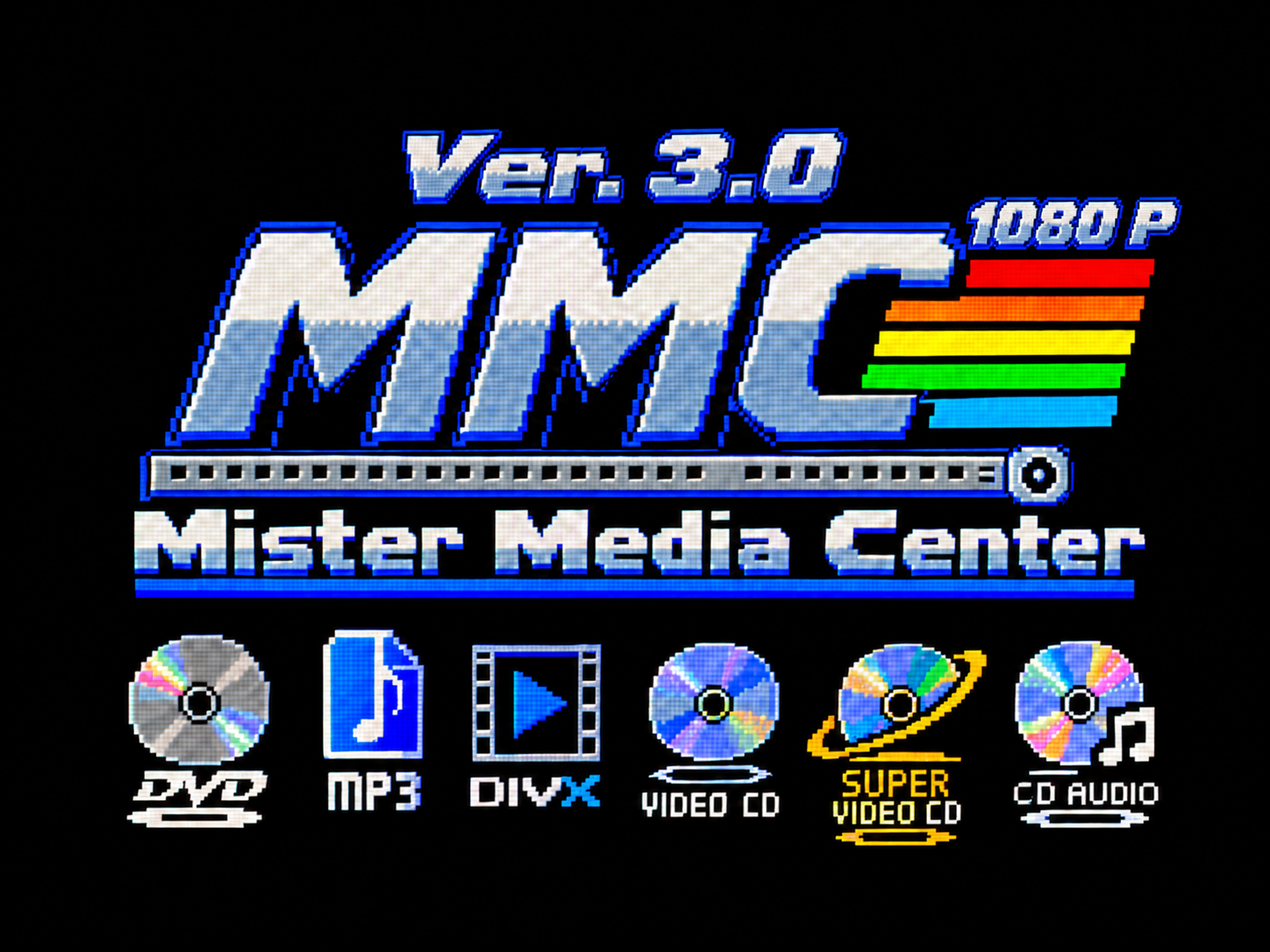
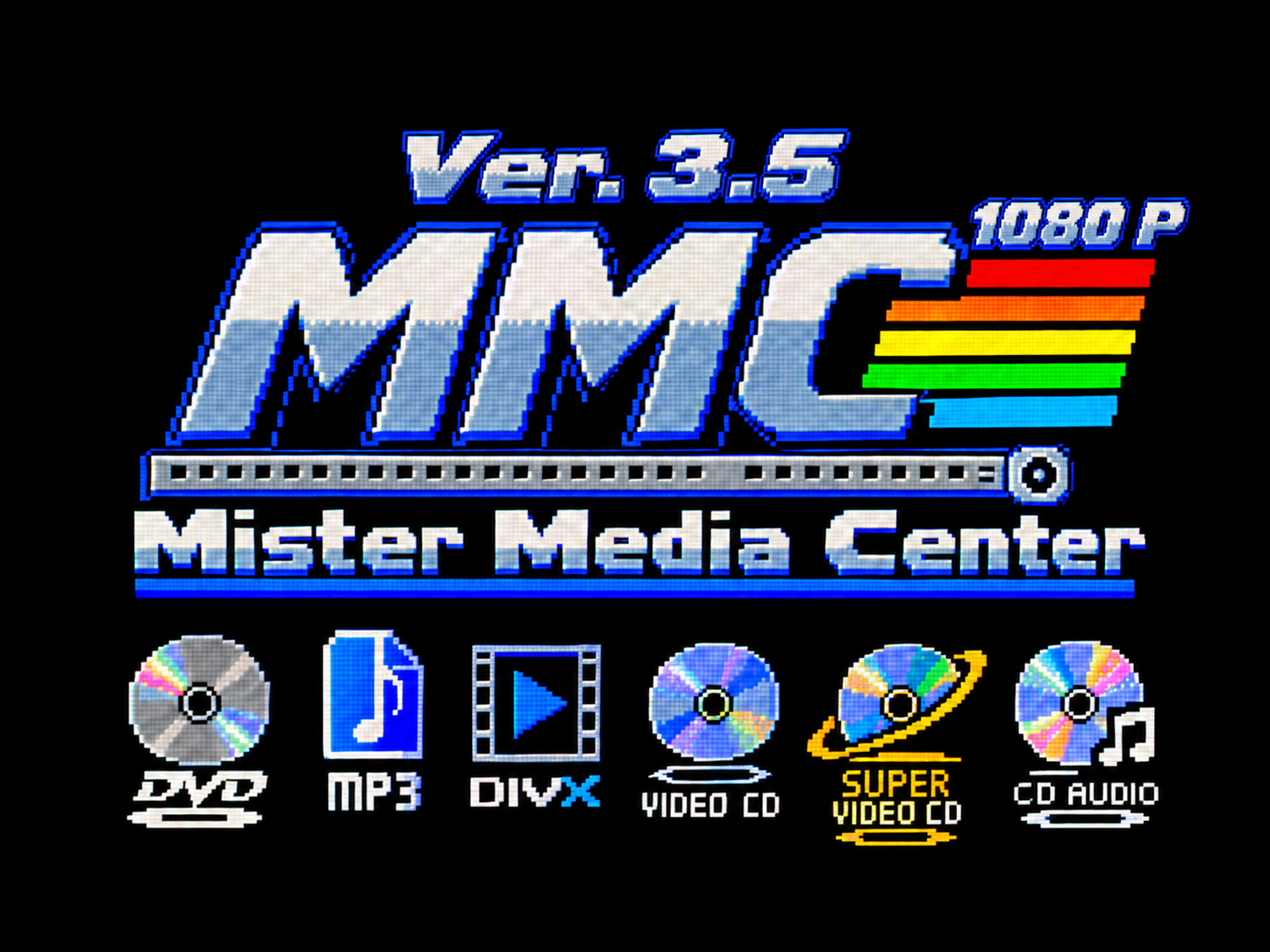
Docs for 3.5: what's new in the READMEs (IT/EN), release notes, README picture Ver. 3.5
- README.md / README_EN.md: section "What's new in version 3.5"
  (deblocking in the FPGA, smooth 1080p30, controls blended by the core,
  waiting for the end of start-up, precedence, MiSTer Remote pause,
  bitrate limits, tests of 25-28 October), MC_NOBOOTWAIT / MC_NOPRIO /
  MC_NOPAUSE in the settings table, MC_NODEBLOCK / MC_NOCOREOSD in the
  test variables.
- RELEASE_NOTES.md for 3.5.
- docs/mmc.png: the Ver. 3.5 picture.

Not released: waiting for the user's tests.

Claude-Session: https://claude.ai/code/session_01JGWBLJ8BwAbyUWtAwdqY5t

diff --git a/RELEASE_NOTES.md b/RELEASE_NOTES.md
@@ -8,24 +8,23 @@
 
 > Sviluppato con l'aiuto dell'intelligenza artificiale (Claude di Anthropic). / Developed with the help of AI (Anthropic's Claude).
 
-**MiSTer MediaCenter 3.0** trasforma il MiSTer in un lettore per DVD-Video, Video CD, Super Video CD, video DivX/Xvid/MP4/MKV e musica, da disco, SD, USB e rete, su HDMI e su CRT a 15 kHz.
+**MiSTer MediaCenter 3.5** trasforma il MiSTer in un lettore per DVD-Video, Video CD, Super Video CD, video DivX/Xvid/MP4/MKV e musica, da disco, SD, USB e rete, su HDMI e su CRT a 15 kHz.
 
-**Novità della 3.0:** i video **1080p H.264** sono fluidi, su HDMI e su CRT, grazie a un acceleratore nell'FPGA.
+**Novità della 3.5:** l'acceleratore H.264 della 3.0 è completo. L'immagine 1080p è più pulita, i video 1080p a 30 immagini al secondo sono fluidi e il menu sopra il video non li rallenta più.
 
-- **Acceleratore H.264 nell'FPGA:** il core del menu contiene un motore che ricostruisce le immagini dei video H.264. L'ARM legge il file e decifra il video, poi manda all'FPGA i comandi di ogni immagine; l'FPGA ricostruisce l'immagine e la copia da sola nel framebuffer. Prima l'ARM impiegava circa 44 ms per immagine, più dei 41,7 ms disponibili a 24 immagini al secondo; ora gliene bastano in media 5–15.
-- **1080p fluido:** nei tratti senza salti 240 immagini mostrate su 240 ogni 10 secondi, contro circa il 14% di immagini non mostrate della 2.8. Panoramiche fluide su HDMI e CRT.
-- **Anche nel formato 4:3 con Start:** l'FPGA restringe l'immagine a 1280 punti (Auto e gli altri formati) o a 960 (4:3); il cambio di formato durante il film non spegne l'acceleratore.
-- **Quando si usa:** solo per i video H.264 a 8 bit, 4:2:0, progressivi, larghi 1920 punti. DVD, Video CD, DivX, 720p e gli altri video vanno come nella 2.8. Se l'acceleratore trova un problema torna da solo al decoder normale dallo stesso punto del film. `MC_NOACC=1` in `mediacenter.ini` lo spegne.
-- **Diagnosi nel log:** ogni 10 secondi una riga `diag acceleratore` con immagini mandate e disegnate, tempi dell'ARM e dell'FPGA, immagini in ritardo o perse.
-- **Chiavetta USB elencata una volta sola** anche quando il sistema la monta su `/media/usb0` e `/media/usb1`.
-- **Video CD giusto sul CRT:** immagine 4:3 a tutto schermo senza bande nere ai lati, 576i per i dischi PAL e riquadro Formato con Start (ora i Video CD li riproduce lo stesso lettore dei Super Video CD).
-- **Nuova immagine** Ver. 3.0 1080 P, mostrata solo quando si avvia lo script mediacenter a mano (non quando parte un DVD, un Super Video CD o un Video CD), come nella 2.8.
+- **Filtro anti-blocchi (deblocking) nell'FPGA:** il core del menu fa anche il filtro che nasconde i bordi dei blocchi dell'H.264, senza costare niente all'ARM. Spariti i punti viola, verdi e gialli nelle scene veloci con la neve.
+- **1080p a 30 immagini al secondo fluido:** HTC.mp4 (1080p 29,97) passa dal 12,4% di immagini non mostrate della 3.0 allo 0,1%.
+- **Menu sopra il 1080p senza scatti:** barra, menu e scritte del lettore li mescola il core del menu mentre copia l'immagine; all'ARM restano 0,3 ms per immagine invece di circa 5.
+- **Subito dopo l'accensione il video aspetta la fine dell'avvio della MiSTer** (al massimo 60 secondi, con i secondi sullo schermo; B torna indietro), invece di scattare nel primo minuto. `MC_NOBOOTWAIT=1` toglie l'attesa.
+- **Il video ha la precedenza sugli altri programmi** mentre suona, e **MiSTer Remote** viene messo in pausa fino alla fine del video (`MC_NOPRIO=1` e `MC_NOPAUSE=1` li tolgono).
+- **Diagnosi nel log:** bitrate del video, picchi del decoder, tempo per disegnare le immagini, altri programmi che usano la CPU.
+- **Nuova immagine** Ver. 3.5, con il numero della build in basso.
 
-Il motore non ha ancora il filtro anti-blocchi (deblocking) dell'H.264: è il prossimo passo.
+**Fin dove arriva il 1080p:** fluido fino a circa 6 Mbit/s a 30 immagini al secondo e 9 Mbit/s a 24 (stime dalle prove). Oltre, l'ARM non fa in tempo a leggere il flusso H.264: leggerlo nell'FPGA è un obiettivo per la 4.0.
 
-Provata su un MiSTer vero il 24 ottobre 2026 su CRT Sony Trinitron (SCART RGB, 480i) e HDMI insieme, con One Piece Episodio 940 1080p H.264: 238 s di riproduzione continua con 5724 immagini disegnate dall'FPGA e nessuna persa; 449 s con salti avanti e indietro, 240 su 240 ogni 10 secondi nei tratti senza salti; cambi di formato Auto, 16:9, 4:3 fluidi con l'acceleratore sempre acceso; scene pesanti con l'FPGA al lavoro circa 30 ms su 41,7; DVD e DivX come nella 2.8; Video CD PAL a tutto schermo sul CRT. Dettagli nel [README](https://github.com/bonna79/MiSTer_MediaCenter#novità-della-versione-30).
+Provata su un MiSTer vero il 25–28 ottobre 2026 su CRT Sony Trinitron (SCART RGB, 480i) e HDMI insieme: HTC.mp4 1080p 29,97 con il menu aperto più volte 0,1% di immagini non mostrate e menu pulito su HDMI e CRT; HTC.mp4 subito dopo l'accensione 0,3% dopo 18 s di attesa (prima 6,8%); One Piece 1080p 23,976 0,3%. Dettagli nel [README](https://github.com/bonna79/MiSTer_MediaCenter#novità-della-versione-35) e nella [scheda tecnica](https://github.com/bonna79/MiSTer_MediaCenter/blob/main/docs/SCHEDA_TECNICA_ACCELERATORE_IT.md).
 
-Le novità della 2.8 (formato giusto per ogni film sul CRT, riquadro Formato con Start) e delle versioni precedenti sono nel [README](https://github.com/bonna79/MiSTer_MediaCenter#novità-della-versione-28).
+Le novità della 3.0 (acceleratore H.264 nell'FPGA) e delle versioni precedenti sono nel [README](https://github.com/bonna79/MiSTer_MediaCenter#novità-della-versione-30).
 
 **Ringraziamenti:**
 
@@ -33,7 +32,7 @@ Le novità della 2.8 (formato giusto per ogni film sul CRT, riquadro Formato con
 - **Max Riptide**, per le numerose prove fatte e i suggerimenti.
 - **mad4gith**, per le idee suggerite per migliorare MMC.
 
-**Installazione:** estrai `MiSTer_MediaCenter.zip` nella cartella principale della SD: contiene tutto quello che serve a MMC. Aggiorna sempre tutti i file insieme. **Dalla 2.8:** estrai lo zip sopra i file vecchi e riavvia; servono insieme il lettore `mediacenter` e il core `menu_mediacenter.rbf` della 3.0 (l'acceleratore è nel core). `MiSTer.ini` e `mediacenter.ini` restano come sono.
+**Installazione:** estrai `MiSTer_MediaCenter.zip` nella cartella principale della SD: contiene tutto quello che serve a MMC. Aggiorna sempre tutti i file insieme. **Dalla 3.0:** estrai lo zip sopra i file vecchi e riavvia; servono insieme il lettore `mediacenter` e il core `menu_mediacenter.rbf` della 3.5 (il filtro anti-blocchi e il menu sopra il video sono nel core). `MiSTer.ini` e `mediacenter.ini` restano come sono.
 
 | File | Cartella |
 | --- | --- |
@@ -50,27 +49,26 @@ Copia in `/media/fat/MiSTer.ini` le righe di `MMC_MiSTer_ini.txt`: `vga_scaler=0
 
 ---
 
-**English:** **MiSTer MediaCenter 3.0** turns the MiSTer into a player for DVD-Video, Video CD, Super Video CD, DivX/Xvid/MP4/MKV video and music, from disc, SD, USB and network, over HDMI and on a 15 kHz CRT.
+**English:** **MiSTer MediaCenter 3.5** turns the MiSTer into a player for DVD-Video, Video CD, Super Video CD, DivX/Xvid/MP4/MKV video and music, from disc, SD, USB and network, over HDMI and on a 15 kHz CRT.
 
-**What's new in 3.0:** **1080p H.264** video plays smoothly, over HDMI and on the CRT, thanks to an accelerator in the FPGA.
+**What's new in 3.5:** 3.0's H.264 accelerator is complete. The 1080p picture is cleaner, 1080p video at 30 pictures per second plays smoothly and the menu over the video no longer slows it down.
 
-- **H.264 accelerator in the FPGA:** the menu core holds an engine that rebuilds the pictures of H.264 video. The ARM reads the file and parses the video, then sends the FPGA the commands for each picture; the FPGA rebuilds the picture and copies it into the frame buffer by itself. Before, the ARM needed about 44 ms per picture, more than the 41.7 ms available at 24 pictures per second; now 5–15 ms on average are enough.
-- **Smooth 1080p:** in stretches without seeks 240 of 240 pictures shown every 10 seconds, against about 14% not shown in 2.8. Smooth pans on HDMI and CRT.
-- **Also in the 4:3 format chosen with Start:** the FPGA narrows the picture to 1280 pixels (Auto and the other formats) or 960 (4:3); changing the format during the film does not turn the accelerator off.
-- **When it is used:** only for 8-bit, 4:2:0, progressive H.264 video 1920 pixels wide. DVD, Video CD, DivX, 720p and other video play as in 2.8. If the accelerator meets a problem it goes back to the normal decoder by itself from the same point of the film. `MC_NOACC=1` in `mediacenter.ini` turns it off.
-- **Diagnostics in the log:** every 10 seconds a `diag acceleratore` line with pictures sent and drawn, ARM and FPGA times, pictures late or lost.
-- **USB stick listed once** even when the system mounts it on both `/media/usb0` and `/media/usb1`.
-- **Video CD right on the CRT:** full-screen 4:3 picture without black bars at the sides, 576i for PAL discs and the format box with Start (Video CDs are now played by the same player as Super Video CDs).
-- **New picture** Ver. 3.0 1080 P, shown only when the mediacenter script is started by hand (not when a DVD, Super Video CD or Video CD starts it), as in 2.8.
+- **Deblocking filter in the FPGA:** the menu core also runs the filter that hides the edges of H.264's blocks, at no cost to the ARM. The purple, green and yellow dots in fast scenes with snow are gone.
+- **Smooth 1080p at 30 pictures per second:** HTC.mp4 (1080p 29.97) goes from 12.4% of pictures not shown in 3.0 to 0.1%.
+- **Menu over 1080p without stutter:** the player's bar, menu and text are blended by the menu core while it copies the picture; the ARM spends 0.3 ms per picture instead of about 5.
+- **Right after power-on the video waits for the MiSTer's start-up to end** (60 seconds at most, with the seconds on screen; B goes back), instead of stuttering for the first minute. `MC_NOBOOTWAIT=1` removes the wait.
+- **The video comes before the other programs** while it plays, and **MiSTer Remote** is paused until the video ends (`MC_NOPRIO=1` and `MC_NOPAUSE=1` remove them).
+- **Diagnostics in the log:** the video's bitrate, the decoder's peaks, the time to draw the pictures, the other programs using the CPU.
+- **New picture** Ver. 3.5, with the build number at the bottom.
 
-The engine does not have H.264's deblocking filter yet: that is the next step.
+**How far 1080p goes:** smooth up to about 6 Mbit/s at 30 pictures per second and 9 Mbit/s at 24 (estimates from the tests). Beyond that the ARM cannot parse the H.264 stream in time: parsing it in the FPGA is a goal for 4.0.
 
-Tested on a real MiSTer on 24 October 2026 on a Sony Trinitron CRT (SCART RGB, 480i) and HDMI together, with One Piece Episode 940 1080p H.264: 238 s of continuous playback with 5724 pictures drawn by the FPGA and none lost; 449 s with seeks forward and back, 240 of 240 every 10 seconds in stretches without seeks; format changes Auto, 16:9, 4:3 smooth with the accelerator always on; heavy scenes with the FPGA working about 30 ms of 41.7; DVD and DivX as in 2.8; PAL Video CD full screen on the CRT. Details in the [README](https://github.com/bonna79/MiSTer_MediaCenter/blob/main/README_EN.md#whats-new-in-version-30).
+Tested on a real MiSTer on 25–28 October 2026 on a Sony Trinitron CRT (SCART RGB, 480i) and HDMI together: HTC.mp4 1080p 29.97 with the menu opened several times 0.1% of pictures not shown and the menu clean on HDMI and CRT; HTC.mp4 right after power-on 0.3% after 18 s of waiting (before 6.8%); One Piece 1080p 23.976 0.3%. Details in the [README](https://github.com/bonna79/MiSTer_MediaCenter/blob/main/README_EN.md#whats-new-in-version-35) and the [technical sheet](https://github.com/bonna79/MiSTer_MediaCenter/blob/main/docs/TECHNICAL_SHEET_ACCELERATOR_EN.md).
 
-What's new in 2.8 (the right shape for every film on the CRT, format box with Start) and in earlier versions is in the [README](https://github.com/bonna79/MiSTer_MediaCenter/blob/main/README_EN.md#whats-new-in-version-28).
+What's new in 3.0 (the H.264 accelerator in the FPGA) and in earlier versions is in the [README](https://github.com/bonna79/MiSTer_MediaCenter/blob/main/README_EN.md#whats-new-in-version-30).
 
 **Thanks:** Umberto Parisi (rmonic79) of the Beceri Videoludici, whose work on [MiSTer CRT Adjust](https://github.com/rmonic79/MiSTer-CRT-Adjust) made CRT Adjust possible ([YouTube channel](https://youtube.com/@rmonic79_ibecerivideoludici)); Max Riptide for the many tests and suggestions; mad4gith for the ideas to improve MMC.
 
-**Install:** extract `MiSTer_MediaCenter.zip` to the root of the SD card: it holds everything MMC needs. Always update all files together (**from 2.8:** extract the zip over the old files and restart; the 3.0 `mediacenter` player and `menu_mediacenter.rbf` core are needed together, the accelerator is in the core; `MiSTer.ini` and `mediacenter.ini` stay as they are): Main `MiSTer_MediaCenter` to `/media/fat/`, ARM player `mediacenter` and menu core `menu_mediacenter.rbf` to `/media/fat/linux/`, script `mediacenter.sh` to `/media/fat/Scripts/`, `libdvdcss.so.2` to `/media/fat/dvdcss/`, `MMC_MiSTer_ini.txt` to `/media/fat/`. Copy the lines of `MMC_MiSTer_ini.txt` into `/media/fat/MiSTer.ini`. The [MiSTer Physical Disc](https://github.com/Anime0t4ku/Main_MiSTer_Physical_Disc/releases) Main, for game discs, is downloaded from its own project. Restart the MiSTer. Full guide in the [README](https://github.com/bonna79/MiSTer_MediaCenter/blob/main/README_EN.md#installation).
+**Install:** extract `MiSTer_MediaCenter.zip` to the root of the SD card: it holds everything MMC needs. Always update all files together (**from 3.0:** extract the zip over the old files and restart; the 3.5 `mediacenter` player and `menu_mediacenter.rbf` core are needed together, the deblocking filter and the menu over the video are in the core; `MiSTer.ini` and `mediacenter.ini` stay as they are): Main `MiSTer_MediaCenter` to `/media/fat/`, ARM player `mediacenter` and menu core `menu_mediacenter.rbf` to `/media/fat/linux/`, script `mediacenter.sh` to `/media/fat/Scripts/`, `libdvdcss.so.2` to `/media/fat/dvdcss/`, `MMC_MiSTer_ini.txt` to `/media/fat/`. Copy the lines of `MMC_MiSTer_ini.txt` into `/media/fat/MiSTer.ini`. The [MiSTer Physical Disc](https://github.com/Anime0t4ku/Main_MiSTer_Physical_Disc/releases) Main, for game discs, is downloaded from its own project. Restart the MiSTer. Full guide in the [README](https://github.com/bonna79/MiSTer_MediaCenter/blob/main/README_EN.md#installation).
 
 **Your feedback is very valuable:** write to me, even when everything works. If there are problems, open a report on [Issues](https://github.com/bonna79/MiSTer_MediaCenter/issues) with photos of the screen and the `/tmp/mediacenter.log`, `/tmp/mediacenter_main.log` and `/tmp/mediacenter_crt` files.

diff --git a/README.md b/README.md
@@ -5,7 +5,7 @@
 > [!WARNING]
 > **AVVERTENZA: HDMI e CRT collegati insieme.** Se usi insieme l'uscita HDMI verso un televisore LCD e l'uscita VGA→SCART verso un CRT, collega **MiSTer, televisore LCD e CRT alla stessa multipresa elettrica**. Con i due televisori su prese diverse, accendere il CRT mentre il MiSTer è acceso può far passare uno sbalzo elettrico attraverso il MiSTer, tramite le masse dei cavi. È successo in una prova: l'HDMI è diventato verde per qualche secondo, poi l'immagine è sparita su tutte e due le uscite (l'audio continuava) e il pad non rispondeva più; è servito riavviare. Se non puoi usare la stessa multipresa, **accendi il CRT prima del MiSTer**.
 
-<p align="center"><img src="docs/mmc.png" alt="MiSTer Media Center Ver. 3.0 1080p: DVD, MP3, DivX, Video CD, Super Video CD, CD Audio" width="720"></p>
+<p align="center"><img src="docs/mmc.png" alt="MiSTer Media Center Ver. 3.5 1080p: DVD, MP3, DivX, Video CD, Super Video CD, CD Audio" width="720"></p>
 
 > Questo progetto è stato sviluppato con l'aiuto dell'intelligenza artificiale: il codice e la documentazione sono stati scritti con Claude, l'IA di Anthropic, e provati da rgm su un MiSTer vero.
 
@@ -36,6 +36,34 @@ Il pacchetto è formato da queste parti:
 | `MMC_MiSTer_ini.txt` | `/media/fat/` | Le righe da copiare in `MiSTer.ini` (non è un `MiSTer.ini`: copia solo le righe) |
 
 Il vecchio `vcd_player` delle prime versioni non serve più: il lettore Video CD è dentro `mediacenter`.
+
+## Novità della versione 3.5
+
+La 3.5 completa l'acceleratore della 3.0: l'immagine 1080p è più pulita, i video 1080p a 30 immagini al secondo sono fluidi e il menu sopra il video non li rallenta più.
+
+- **Filtro anti-blocchi (deblocking) nell'FPGA:** il core del menu ora fa anche il filtro che l'H.264 usa per nascondere i bordi dei blocchi, e calcola da solo quanto filtrare ogni bordo: all'ARM non costa niente. Spariti i punti viola, verdi e gialli che si vedevano nelle scene veloci con la neve. `MC_NODEBLOCK=1` in `mediacenter.ini` lo spegne (solo per i confronti).
+- **1080p a 30 immagini al secondo fluido:** HTC.mp4 (1080p 29,97, 4,5 Mbit/s) passa dal 12,4% di immagini non mostrate della 3.0 allo 0,1%. Il lettore riusa prima le pagine dello schermo, scrive i comandi direttamente nella memoria che legge l'FPGA e tiene 24 immagini decodificate in anticipo; all'inizio e dopo un salto aspetta di averle pronte (al massimo un secondo).
+- **Menu sopra il 1080p senza scatti:** la barra, il menu e le scritte del lettore sopra un video accelerato li mescola il core del menu mentre copia l'immagine. Prima lo faceva l'ARM, circa 5 ms per immagine, e a 30 immagini al secondo con il menu aperto qualche immagine veniva scartata. Ora all'ARM restano 0,3 ms.
+- **Subito dopo l'accensione il video aspetta la fine dell'avvio:** nei primi 30–40 secondi la MiSTer esegue ancora i suoi script di avvio, e un 1080p partito in quel momento scattava. Ora il lettore mostra "La MiSTer sta finendo l'avvio" con i secondi trascorsi e fa partire il video da solo quando l'avvio è finito (al massimo 60 secondi); B torna indietro. Se la MiSTer è accesa da più tempo il video parte subito. `MC_NOBOOTWAIT=1` toglie l'attesa.
+- **Il video ha la precedenza sugli altri programmi** mentre suona; alla fine tutto torna come prima. `MC_NOPRIO=1` la toglie.
+- **MiSTer Remote in pausa durante il video:** nei primi minuti dopo l'accensione cataloga i giochi e usava il 20–30% della CPU. Il lettore lo mette in pausa mentre un video suona e lo fa ripartire alla fine. `MC_NOPAUSE=1` lo lascia stare.
+- **Diagnosi nel log:** il bitrate del video, i picchi del decoder, il tempo per disegnare ogni immagine, gli altri programmi che usano la CPU e i comandi mescolati dal core.
+- **Nuova immagine** con la scritta Ver. 3.5, e il numero della build in basso.
+
+**Fin dove arriva il 1080p.** Con l'acceleratore l'ARM deve ancora leggere il flusso H.264, e il suo lavoro cresce con il bitrate del video. Dalle prove, i limiti per un video fluido sono circa **6 Mbit/s a 30 immagini al secondo**, **8,5–9 Mbit/s a 25** e **9–9,5 Mbit/s a 24**: sono stime ricavate dalle misure, non provate una per una. Oltre, il video va ma con molte immagini non mostrate (un 1080p a 30 immagini al secondo e 11 Mbit/s ne perde circa due su tre; l'audio resta pulito). Per andare oltre l'ARM servirebbe leggere il flusso nell'FPGA: è un obiettivo per la versione 4.0.
+
+Provata su un MiSTer vero il 25–28 ottobre 2026, su CRT Sony Trinitron (SCART RGB, 480i) e HDMI insieme:
+
+| Prova | Risultato |
+| --- | --- |
+| HTC.mp4, 1080p 29,97, 4,5 Mbit/s, 147 s, con il menu aperto più volte | 0,1% di immagini non mostrate (3.0: 12,4%), nessuna immagine persa dall'FPGA; menu pulito su HDMI e CRT |
+| HTC.mp4 subito dopo l'accensione | Attesa della fine dell'avvio di 18 s, poi 0,3% di immagini non mostrate (senza attesa: 6,8%) |
+| One Piece Episodio 940, 1080p 23,976 | 0,3% di immagini non mostrate, ARM 7,9 ms per immagine in media |
+| Scene con la neve di HTC.mp4 | Spariti i punti colorati che si vedevano senza il filtro anti-blocchi |
+| 1080p 29,97 a 6 Mbit/s | 0,3% di immagini non mostrate: è il limite a 30 immagini al secondo |
+| 1080p 29,97 a 11 Mbit/s | 64,7% di immagini non mostrate, audio pulito: oltre il limite |
+
+I dettagli tecnici sono nella [scheda tecnica dell'acceleratore](docs/SCHEDA_TECNICA_ACCELERATORE_IT.md).
 
 ## Novità della versione 3.0
 
@@ -476,6 +504,9 @@ MC_CRT_VPOS=2
 | `MC_FIELDS=1` | DVD e video interlacciati: il lettore non fonde i due semiquadri. Il CRT li riceve intatti, come da un vero lettore DVD (più nitido e più fluido nel movimento); sull'HDMI li fonde lo scaler del Main, senza pettini. Consigliato con il CRT. Senza questa riga il lettore fonde le righe per tutte e due le uscite |
 | `MC_NOYUV=1` | Fa convertire i colori all'ARM invece che all'FPGA |
 | `MC_NOACC=1` | Spegne l'acceleratore H.264 della 3.0: i video 1080p li decodifica l'ARM come nella 2.8 |
+| `MC_NOBOOTWAIT=1` | Subito dopo l'accensione il video parte senza aspettare la fine dell'avvio della MiSTer |
+| `MC_NOPRIO=1` | Il video non ha la precedenza sugli altri programmi |
+| `MC_NOPAUSE=1` | MiSTer Remote non viene messo in pausa durante il video |
 | `MC_VCD_OLD=1` | Video CD da disco con il vecchio lettore Video CD, come nella 2.8 (sul CRT con le bande ai lati) |
 | `MC_NOZC=1` | Video 1080p senza acceleratore: l'immagine la copia l'ARM invece del core del menu (zero-copy spento) |
 | `MC_MENU_HD=1` | Elenchi a 1280x720 come nella versione 2.1, invece che disegnati per il CRT |
@@ -529,6 +560,8 @@ Apri una segnalazione nella pagina [Issues](../../issues) e allega:
 | `MC_DEBUG=1` | Scrive nel log gli eventi della navigazione nei DVD |
 | `MC_FULLQUALITY=1` | Disattiva la modalità leggera dei video H.264/HEVC in alta definizione (deblocking spento, oltre le 720 righe metà delle righe ingrandite dallo scaler FPGA e, sopra i 30 fps, solo le immagini di riferimento) |
 | `MC_ACC_RING=so` | Acceleratore: l'anello dei comandi in una zona fissa della memoria invece che nelle pagine del lettore (per confrontare i tempi) |
+| `MC_NODEBLOCK=1` | Acceleratore: l'FPGA non fa il filtro anti-blocchi, come nella 3.0 (per i confronti) |
+| `MC_NOCOREOSD=1` | Acceleratore: i comandi del lettore sopra l'immagine li mescola l'ARM invece del core (per i confronti) |
 | `MC_ACC_COPY=1` | Acceleratore: ogni immagine viene copiata nell'anello dei comandi, come prima, invece di essere scritta direttamente (per confrontare i tempi) |
 | `MC_TEST=...` | Prova senza schermo né controller: tasti simulati e immagini salvate in `/tmp/mc_<secondi>.ppm`. Con un file `.cue` riproduce un'immagine di Super Video CD come se fosse nel lettore |
 

diff --git a/README_EN.md b/README_EN.md
@@ -5,7 +5,7 @@
 > [!WARNING]
 > **WARNING: HDMI and CRT connected together.** If you use the HDMI output to an LCD TV and the VGA→SCART output to a CRT at the same time, plug **the MiSTer, the LCD TV and the CRT into the same power strip**. With the two TVs on different wall sockets, switching the CRT on while the MiSTer is running can send an electrical surge through the MiSTer via the cable grounds. It happened in a test: HDMI turned green for a few seconds, then the picture vanished on both outputs (the sound kept playing) and the pad stopped responding; a reboot was needed. If you cannot use the same power strip, **switch the CRT on before the MiSTer**.
 
-<p align="center"><img src="docs/mmc.png" alt="MiSTer Media Center Ver. 3.0 1080p: DVD, MP3, DivX, Video CD, Super Video CD, CD Audio" width="720"></p>
+<p align="center"><img src="docs/mmc.png" alt="MiSTer Media Center Ver. 3.5 1080p: DVD, MP3, DivX, Video CD, Super Video CD, CD Audio" width="720"></p>
 
 > This project was developed with the help of artificial intelligence: the code and the documentation were written with Claude, Anthropic's AI, and tested by rgm on a real MiSTer.
 
@@ -38,6 +38,34 @@ The package is made of these parts:
 The old `vcd_player` from the first versions is no longer needed: the Video CD player is inside `mediacenter`.
 
 The player's on-screen texts are in Italian.
+
+## What's new in version 3.5
+
+3.5 completes 3.0's accelerator: the 1080p picture is cleaner, 1080p video at 30 pictures per second plays smoothly and the menu over the video no longer slows it down.
+
+- **Deblocking filter in the FPGA:** the menu core now also runs the filter H.264 uses to hide the edges of the blocks, and works out by itself how much to filter each edge: it costs the ARM nothing. The purple, green and yellow dots seen in fast scenes with snow are gone. `MC_NODEBLOCK=1` in `mediacenter.ini` turns it off (for comparisons only).
+- **Smooth 1080p at 30 pictures per second:** HTC.mp4 (1080p 29.97, 4.5 Mbit/s) goes from 12.4% of pictures not shown in 3.0 to 0.1%. The player reuses the screen pages sooner, writes the commands straight into the memory the FPGA reads, and keeps 24 pictures decoded ahead; at the start and after a seek it waits until they are ready (one second at most).
+- **Menu over 1080p without stutter:** the player's bar, menu and text over an accelerated video are blended by the menu core while it copies the picture. Before, the ARM did it, about 5 ms per picture, and at 30 pictures per second with the menu open a few pictures were dropped. Now the ARM spends 0.3 ms.
+- **Right after power-on the video waits for start-up to end:** for the first 30–40 seconds the MiSTer is still running its start-up scripts, and a 1080p started then stuttered. Now the player shows "La MiSTer sta finendo l'avvio" with the seconds gone by and starts the video by itself when start-up is over (60 seconds at most); B goes back. If the MiSTer has been on for longer the video starts at once. `MC_NOBOOTWAIT=1` removes the wait.
+- **The video comes before the other programs** while it plays; at the end everything goes back as before. `MC_NOPRIO=1` removes it.
+- **MiSTer Remote paused during the video:** in the first minutes after power-on it catalogues the games and took 20–30% of the CPU. The player pauses it while a video plays and starts it again at the end. `MC_NOPAUSE=1` leaves it alone.
+- **Diagnostics in the log:** the video's bitrate, the decoder's peaks, the time to draw each picture, the other programs using the CPU and the controls blended by the core.
+- **New picture** reading Ver. 3.5, with the build number at the bottom.
+
+**How far 1080p goes.** With the accelerator the ARM still has to parse the H.264 stream, and its work grows with the video's bitrate. From the tests, the limits for a smooth video are about **6 Mbit/s at 30 pictures per second**, **8.5–9 Mbit/s at 25** and **9–9.5 Mbit/s at 24**: estimates worked out from the measurements, not each one tested. Beyond that the video plays but with many pictures not shown (a 1080p at 30 pictures per second and 11 Mbit/s loses about two in three; the sound stays clean). Going beyond the ARM would need the stream to be parsed in the FPGA: a goal for version 4.0.
+
+Tested on a real MiSTer on 25–28 October 2026, on a Sony Trinitron CRT (SCART RGB, 480i) and HDMI together:
+
+| Test | Result |
+| --- | --- |
+| HTC.mp4, 1080p 29.97, 4.5 Mbit/s, 147 s, with the menu opened several times | 0.1% of pictures not shown (3.0: 12.4%), no picture lost by the FPGA; menu clean on HDMI and CRT |
+| HTC.mp4 right after power-on | 18 s waiting for start-up to end, then 0.3% of pictures not shown (without the wait: 6.8%) |
+| One Piece Episode 940, 1080p 23.976 | 0.3% of pictures not shown, ARM 7.9 ms per picture on average |
+| Snow scenes of HTC.mp4 | The coloured dots seen without the deblocking filter are gone |
+| 1080p 29.97 at 6 Mbit/s | 0.3% of pictures not shown: the limit at 30 pictures per second |
+| 1080p 29.97 at 11 Mbit/s | 64.7% of pictures not shown, sound clean: beyond the limit |
+
+The technical details are in the [accelerator's technical sheet](docs/TECHNICAL_SHEET_ACCELERATOR_EN.md).
 
 ## What's new in version 3.0
 
@@ -478,6 +506,9 @@ MC_CRT_VPOS=2
 | `MC_FIELDS=1` | Interlaced DVDs and videos: the player does not blend the two fields. The CRT gets them whole, as from a real DVD player (sharper and smoother in motion); on HDMI the Main's scaler blends them, with no combing. Recommended with a CRT. Without this line the player blends the lines for both outputs |
 | `MC_NOYUV=1` | Has the ARM convert the colours instead of the FPGA |
 | `MC_NOACC=1` | Turns off the 3.0 H.264 accelerator: 1080p videos are decoded by the ARM as in 2.8 |
+| `MC_NOBOOTWAIT=1` | Right after power-on the video starts without waiting for the MiSTer's start-up to end |
+| `MC_NOPRIO=1` | The video does not come before the other programs |
+| `MC_NOPAUSE=1` | MiSTer Remote is not paused during the video |
 | `MC_VCD_OLD=1` | Video CDs from the drive with the old Video CD player, as in 2.8 (side bars on the CRT) |
 | `MC_NOZC=1` | 1080p videos without the accelerator: the ARM copies the picture instead of the menu core (zero-copy off) |
 | `MC_MENU_HD=1` | Lists at 1280x720 as in version 2.1, instead of drawn for the CRT |
@@ -531,6 +562,8 @@ Open a report on the [Issues](../../issues) page and attach:
 | `MC_DEBUG=1` | Logs DVD navigation events |
 | `MC_FULLQUALITY=1` | Turns off the light mode for high-definition H.264/HEVC video (no deblocking, above 720 lines half of the lines enlarged by the FPGA scaler and, above 30 fps, only reference pictures) |
 | `MC_ACC_RING=so` | Accelerator: the command ring in a fixed memory area instead of the player's pages (to compare times) |
+| `MC_NODEBLOCK=1` | Accelerator: the FPGA does not run the deblocking filter, as in 3.0 (for comparisons) |
+| `MC_NOCOREOSD=1` | Accelerator: the ARM blends the player's controls over the picture instead of the core (for comparisons) |
 | `MC_ACC_COPY=1` | Accelerator: every picture is copied into the command ring, as before, instead of being written straight into it (to compare times) |
 | `MC_TEST=...` | Runs without screen or controller: simulated keys, pictures saved to `/tmp/mc_<seconds>.ppm`. With a `.cue` file it plays a Super Video CD image as if it were in the drive |
 
